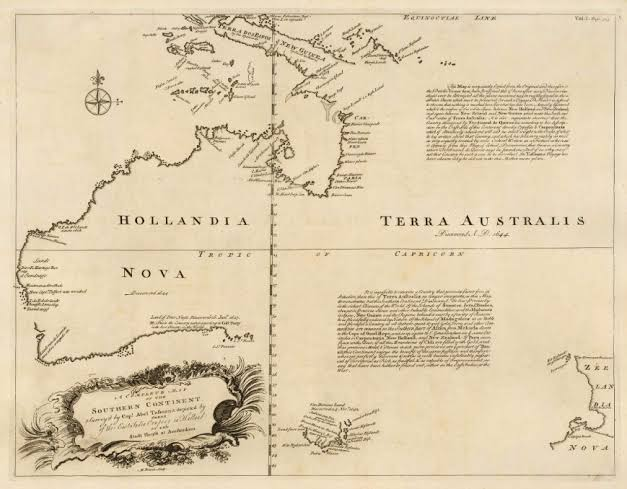
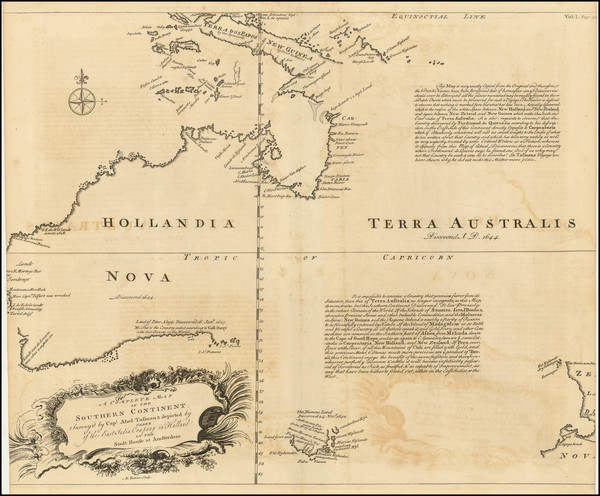
Replace three map scans with higher-resolution archive copies
Better sources for the maps added in the Three Coastlines section.
Sizes, old to new:

- Flinders, General Chart of Terra Australis or Australia, 1814:
  39,759 to 925,195 bytes. Twenty-three times the data. The previous
  copy was the weakest image on the site and visibly so; this one shows
  the full sheet with the coastline detail legible, Torres Strait, the
  Gulf of Carpentaria, Bass Strait and Van Diemen's Land all readable.
- Visscher, Orbis Terrarum Nova et Accuratissima Tabula: 1,334,320
  bytes webp to 1,737,414 bytes jpeg, and a cleaner scan — no page
  edge, truer hand colouring. Extension change required updating the
  reference in 03-vision.html.
- Thevenot, chart of the Southern Continent after Tasman 1644: 48,329
  to 112,959 bytes, and this copy includes the full "A Complete Map of
  the Southern Continent" cartouche the previous crop had lost.

One candidate deliberately not taken: a Descriptio Terrae Subaustralis
scan at 62,532 bytes, against the 1,347,571-byte copy already in place.
Twenty times smaller. Swapping it would have been a downgrade dressed
as an upgrade, so the existing file stays.

Provenance is better than the previous batch — the Flinders in
particular carries the presentation border characteristic of the David
Rumsey Map Collection, which publishes its scans for free
non-commercial use. Still worth recording source URLs against each file
if they can be recovered.

Claude-Session: https://claude.ai/code/session_015tfxCQeq8BC6xbKSprsfBY

diff --git a/03-vision.html b/03-vision.html
@@ -43,7 +43,7 @@
     <p>The Incognita Rule — always mark which lines are dreamed and which are surveyed — is not an abstraction here. It is the literal history of this continent's outline, in three maps.</p>
 
     <figure class="map-plate">
-      <img src="images/vision-visscher-orbis-terrarum.webp" alt="Visscher's Orbis Terrarum Nova et Accuratissima Tabula, a hand-coloured double-hemisphere world map with Australia Incognita lettered across the southern edge.">
+      <img src="images/vision-visscher-orbis-terrarum.jpg" alt="Visscher's Orbis Terrarum Nova et Accuratissima Tabula, a hand-coloured double-hemisphere world map with Australia Incognita lettered across the southern edge.">
       <figcaption>Dreamed — Visscher, <em>Orbis Terrarum Nova et Accuratissima Tabula</em></figcaption>
     </figure>
     <p><strong>The dreamed line.</strong> <em>Australia Incognita</em> is lettered across the base of both hemispheres — a continent named before it was seen, drawn because symmetry demanded one. <em>Hollandia Nova</em> sits beside it, the first fragments of real coast.</p>
